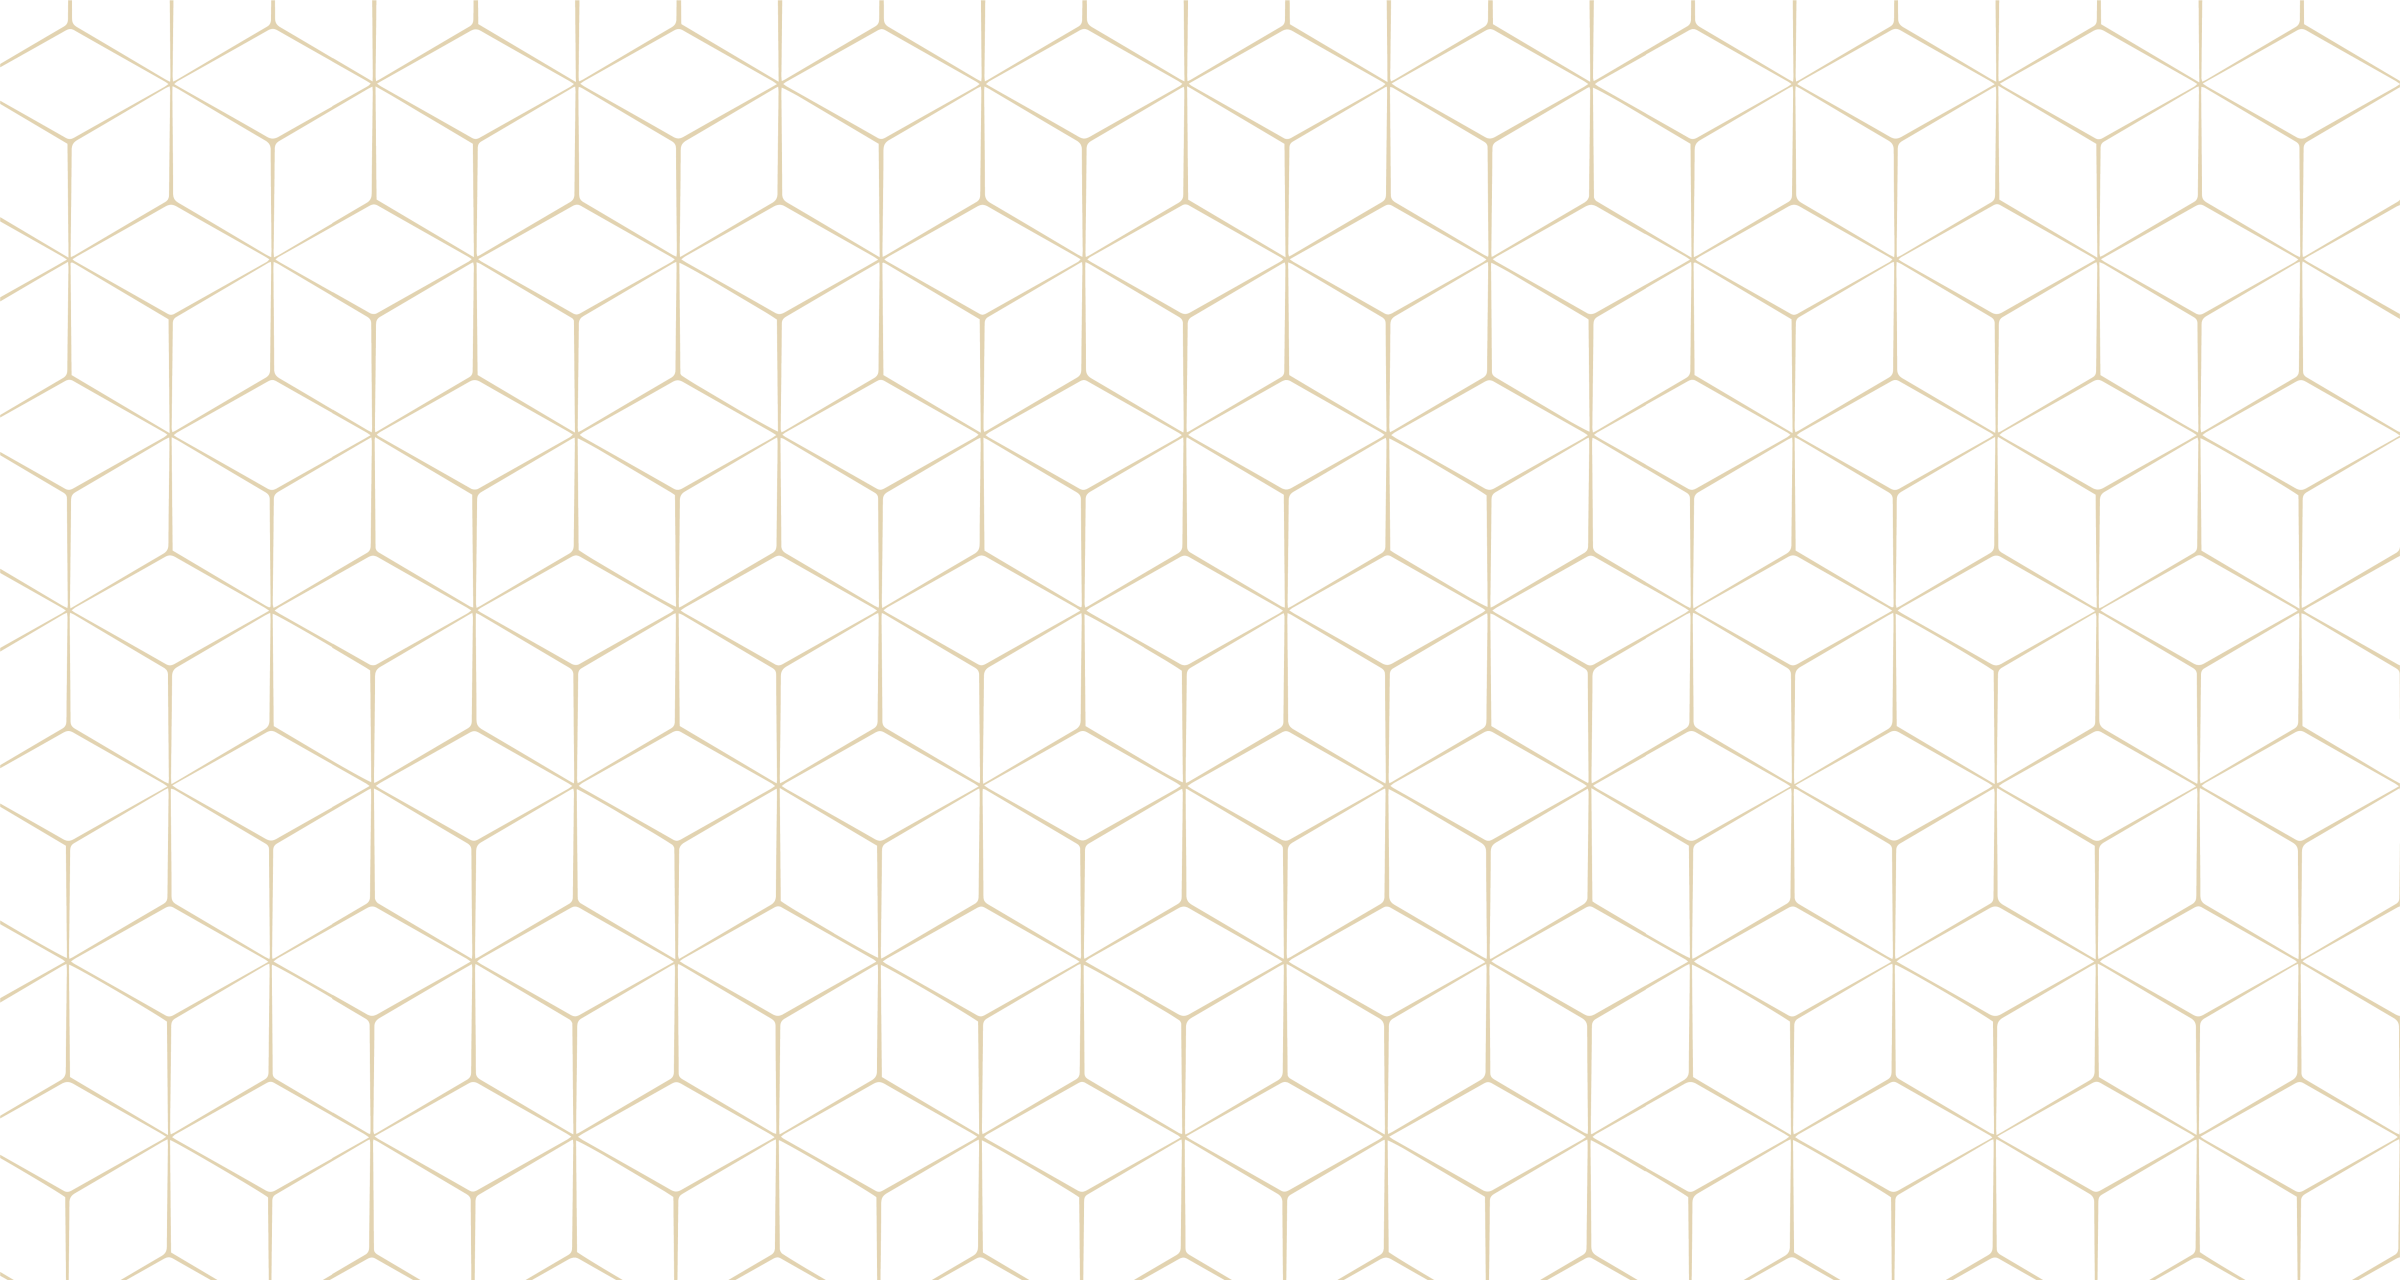
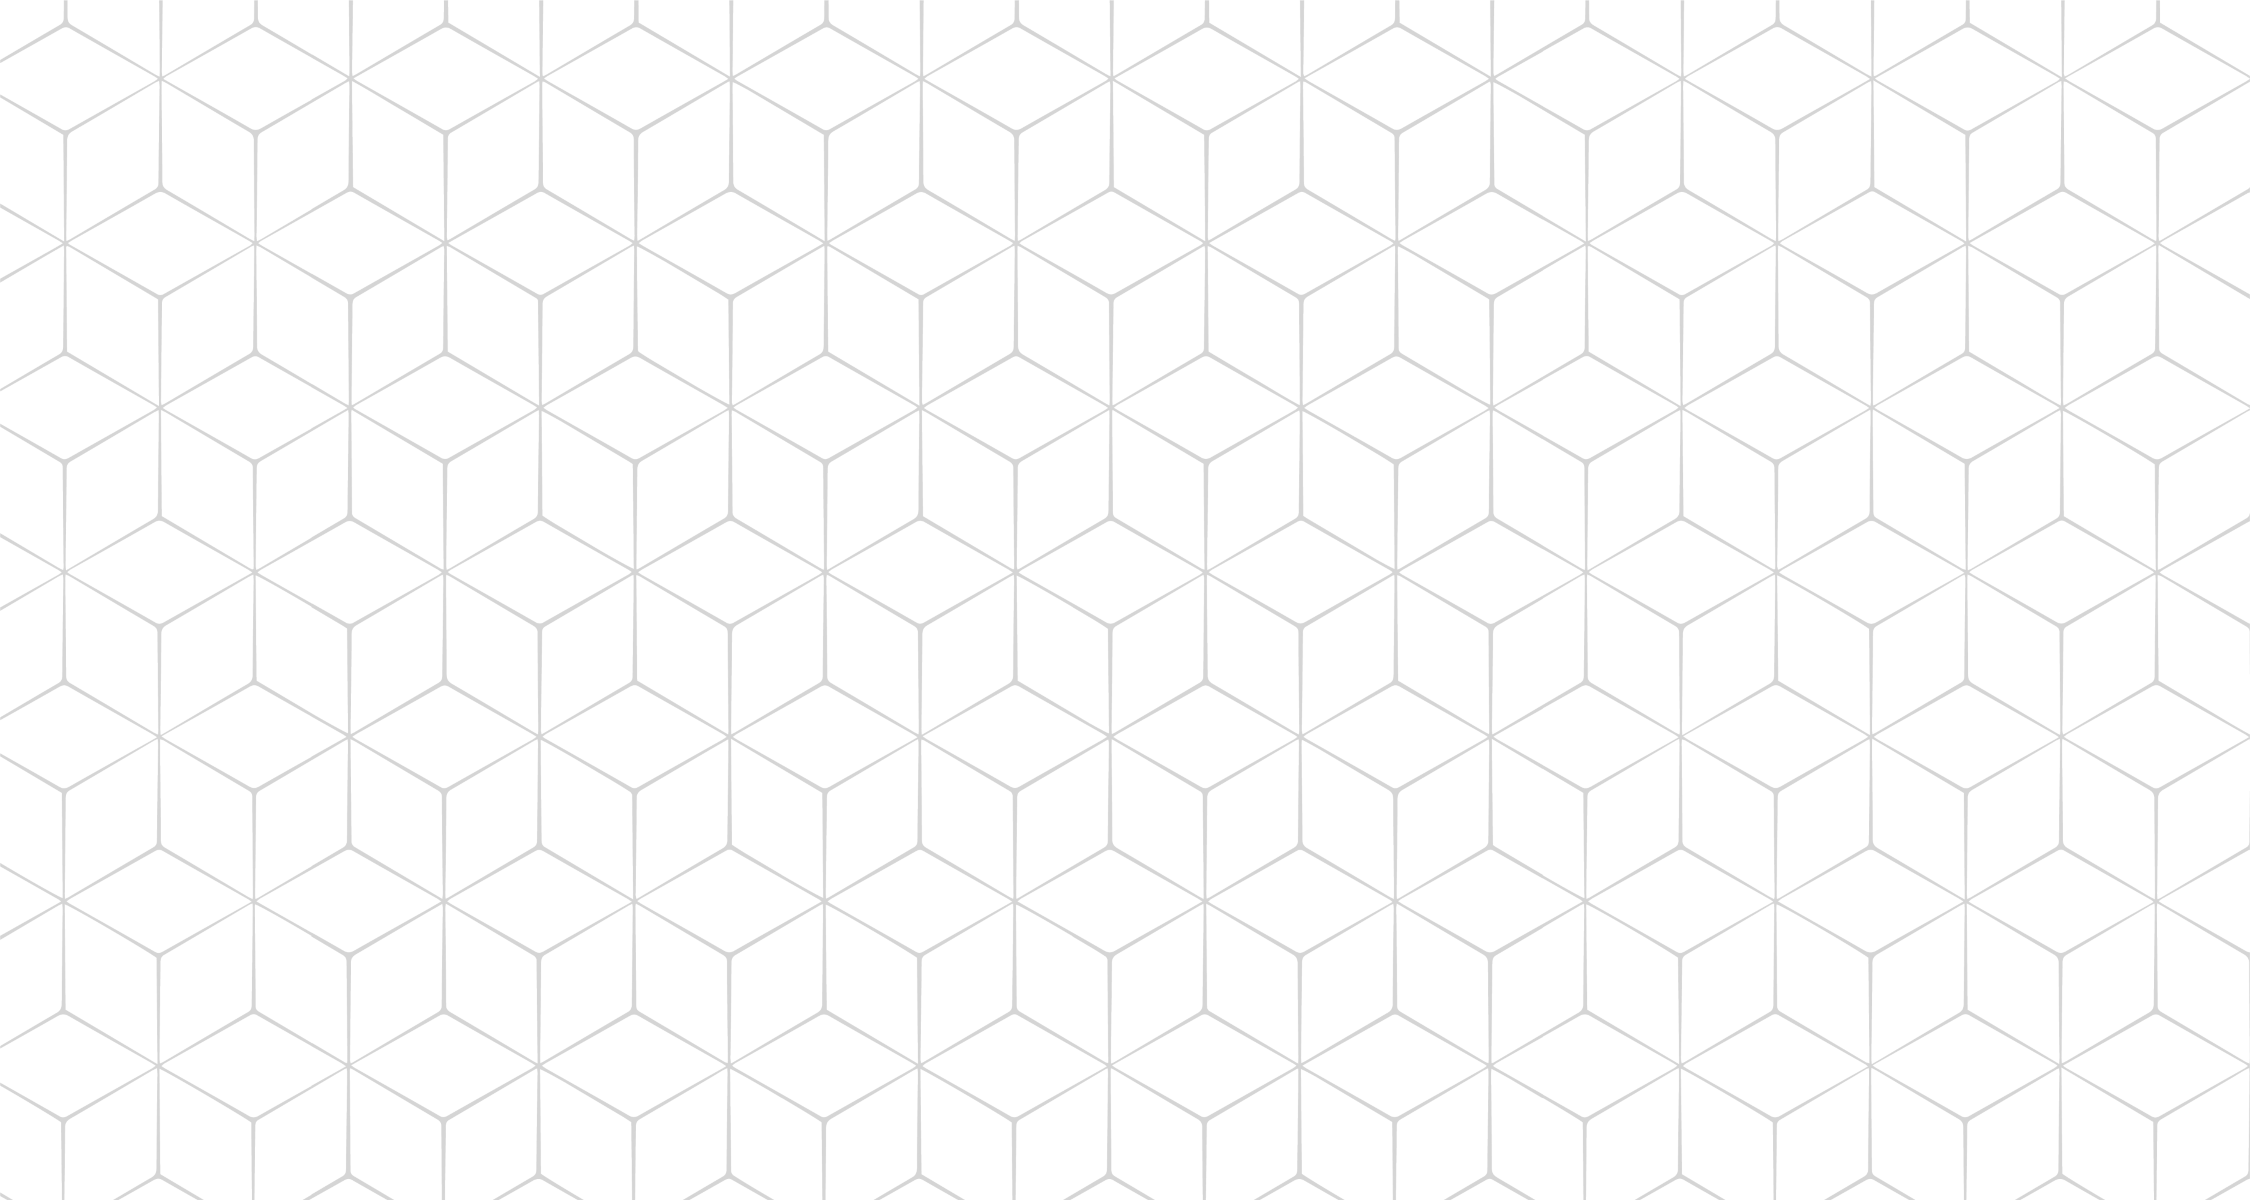
fix: background image optimization

diff --git a/lib/features/root/widgets/molecules/root_background_pattern.dart b/lib/features/root/widgets/molecules/root_background_pattern.dart
@@ -27,10 +27,11 @@ class RootBackgroundPattern extends HookWidget {
       decoration: BoxDecoration(
         color: context.colorScheme.background,
         image: DecorationImage(
-          fit: BoxFit.cover,
           image: image,
+          opacity: 0.2,
+          fit: BoxFit.cover,
           colorFilter: ColorFilter.mode(
-            context.theme.disabledColor.withOpacity(0.05),
+            context.theme.disabledColor.withOpacity(0.2),
             BlendMode.srcIn,
           ),
         ),
